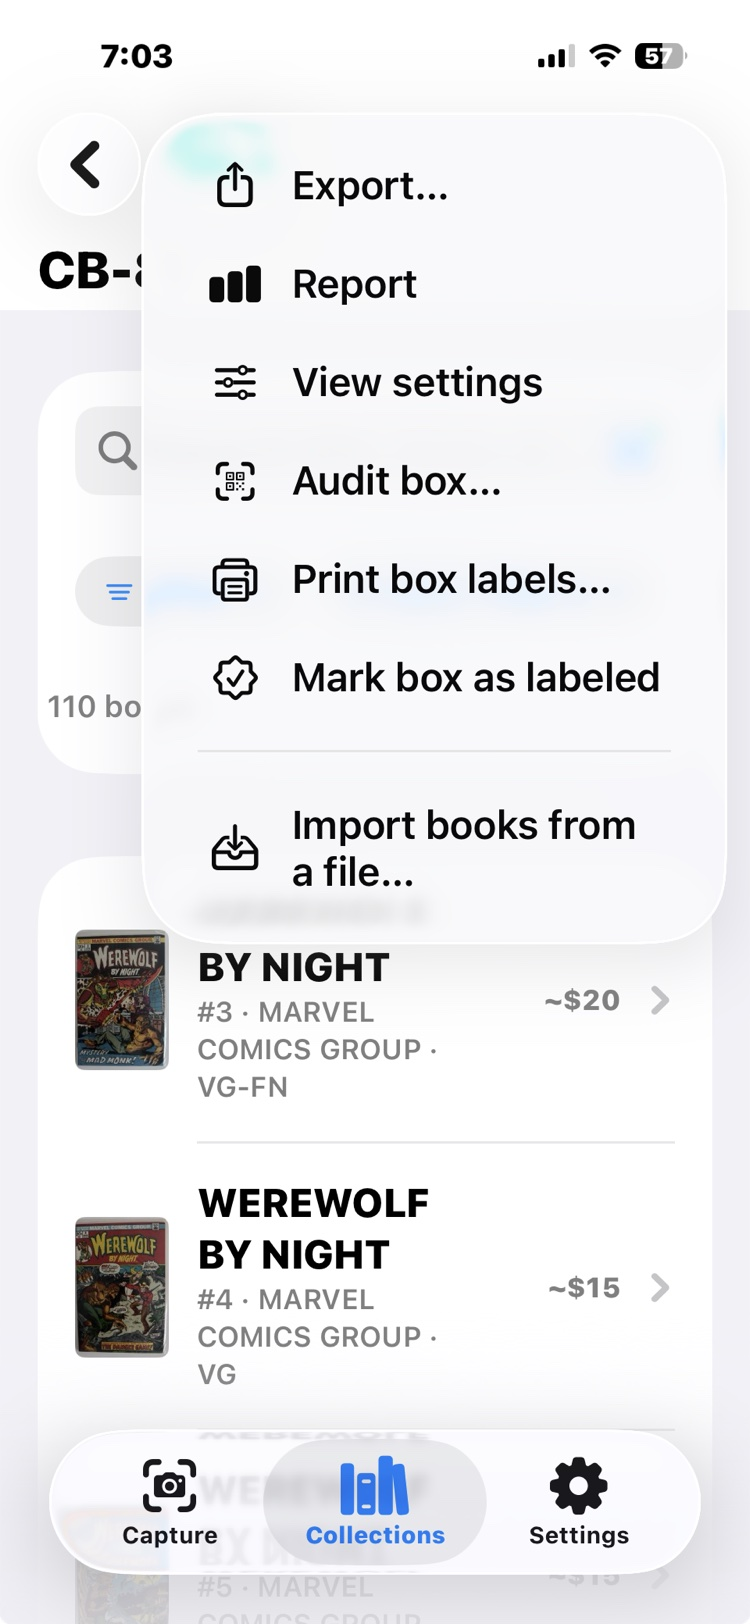
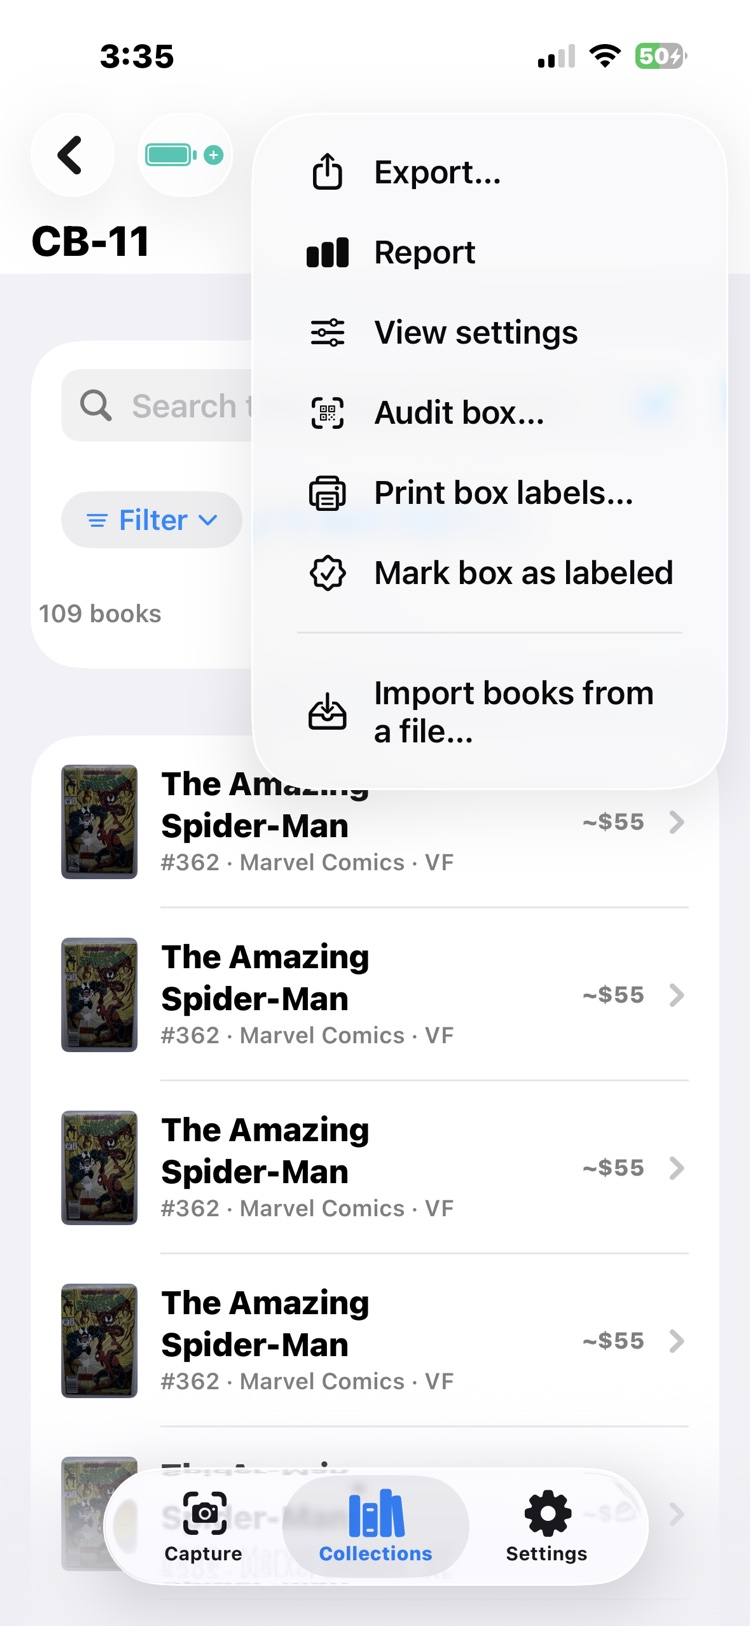
CB-11 gets its 109 labels on four sheets, and the page counts them right

diff --git a/howto/barcoding-your-books.html b/howto/barcoding-your-books.html
@@ -234,28 +234,28 @@
     from behind without pulling a single book.</p>
     <div class="phone-strip pair">
       <figure>
-        <img src="../images/barcoding-1.jpg" width="750" height="1624" loading="lazy"
-             alt="A box's menu open over CB-8: Export, Report, View settings, Audit box, Print box labels, Mark box as labeled, and Import books from a file." />
+        <img src="../images/barcoding-1.jpg" width="750" height="1626" loading="lazy"
+             alt="A box's menu open over CB-11 and its 109 books: Export, Report, View settings, Audit box, Print box labels, Mark box as labeled, and Import books from a file." />
         <figcaption>Every box's menu: Print box labels, and Mark box as labeled
           when the sticking is done.</figcaption>
       </figure>
       <figure>
-        <img src="../images/barcoding-2.jpg" width="750" height="1624" loading="lazy"
-             alt="The label sheet dialog: Avery 5160 at thirty per sheet, alphabetical label order, a start-at picker, and advice to use permanent stock on the back of the bag." />
+        <img src="../images/barcoding-2.jpg" width="750" height="1626" loading="lazy"
+             alt="The Print Labels dialog: Avery 5160 at thirty per sheet, alphabetical label order, a start-at picker, 109 labels on 4 sheets, advice to use permanent stock on the back of the bag, and a Pair labels with books button." />
         <figcaption>Avery 5160, alphabetical, and honest advice: permanent stock,
           back of the bag.</figcaption>
       </figure>
     </div>
     <p>Generate hands you a PDF sized to the stock: AirDrop it to the computer and
-    print. For the box this article follows, 110 labels came out on four sheets.
+    print. For the box this article follows, 109 labels came out on four sheets.
     Back on the phone, <strong>Pair labels with books</strong> walks the sheet in
     print order, showing each label's position beside that exact copy's photo,
     which is how ten copies in four different grades all get the right stickers.
     When the box is done, <strong>Mark box as labeled</strong> records it.</p>
     <figure class="screen">
-      <img src="../images/barcoding-3.jpg" width="978" height="1076" loading="lazy"
-           alt="The generated label PDF open on a Mac: an Avery grid of QR labels, each with a title, issue, grade, and short code, for Giant-Size Thor, The Mighty Thor, and The Tomb of Dracula." />
-      <figcaption>Four sheets for 110 books: title, issue, grade, and the copy's
+      <img src="../images/barcoding-3.jpg" width="999" height="1205" loading="lazy"
+           alt="The generated label PDF open on a Mac, four pages in the sidebar: an Avery grid of QR labels, each with a title, issue, grade, and short code, for Amazing Spider-Man, Batman, Cable, Catwoman, and Green Lantern." />
+      <figcaption>Four sheets for 109 books: title, issue, grade, and the copy's
         own code on every label.</figcaption>
     </figure>
 

diff --git a/README.md b/README.md
@@ -122,7 +122,7 @@ delete the raw. One copy per picture.
 | `after-the-show-5.jpg` | after-the-show scenario | **Done 2026-09-07** | |
 | `after-the-show-3.jpg` (was -6) | after-the-show scenario, accuracy how-to | **Done 2026-09-07** | |
 | `ballpark-run-1.jpg` | ballpark how-to | **Done 2026-09-07**: the whole loop reshot as -1 to -6 on CB-8; -2 retaken without the debug rows | |
-| `barcoding-1.jpg` | barcoding how-to | "WEREWOLF BY NIGHT" rows behind the menu | Box menu open with Print box labels and Mark box as labeled |
+| `barcoding-1.jpg` | barcoding how-to | **Done 2026-09-07**: CB-11, with -2 and -3 reshot alongside (109 labels, four sheets) | |
 | `backup-reminder.jpg` | sharing how-to | "WEREWOLF BY NIGHT" above "Werewolf By Night", and a 50,000-book test library | Collections screen with the Backup due banner; a real collection behind it |
 | `convention-table-2.jpg` | convention-table scenario | Kiosk cards read "THE TOMB OF DRACULA", publishers "MARVEL COMICS GROUP" and "MARVEL" | Desktop: re-export the kiosk (it also gained label QR codes on 2026-08-29), search "Tomb", screenshot |
 | `export-1.jpg` | sharing how-to | "KNIGHT · MARVEL COMICS GROUP" beside "Meta-morpho The Element Man" | Selection mode, three checked, menu open on Export 3 selected |
